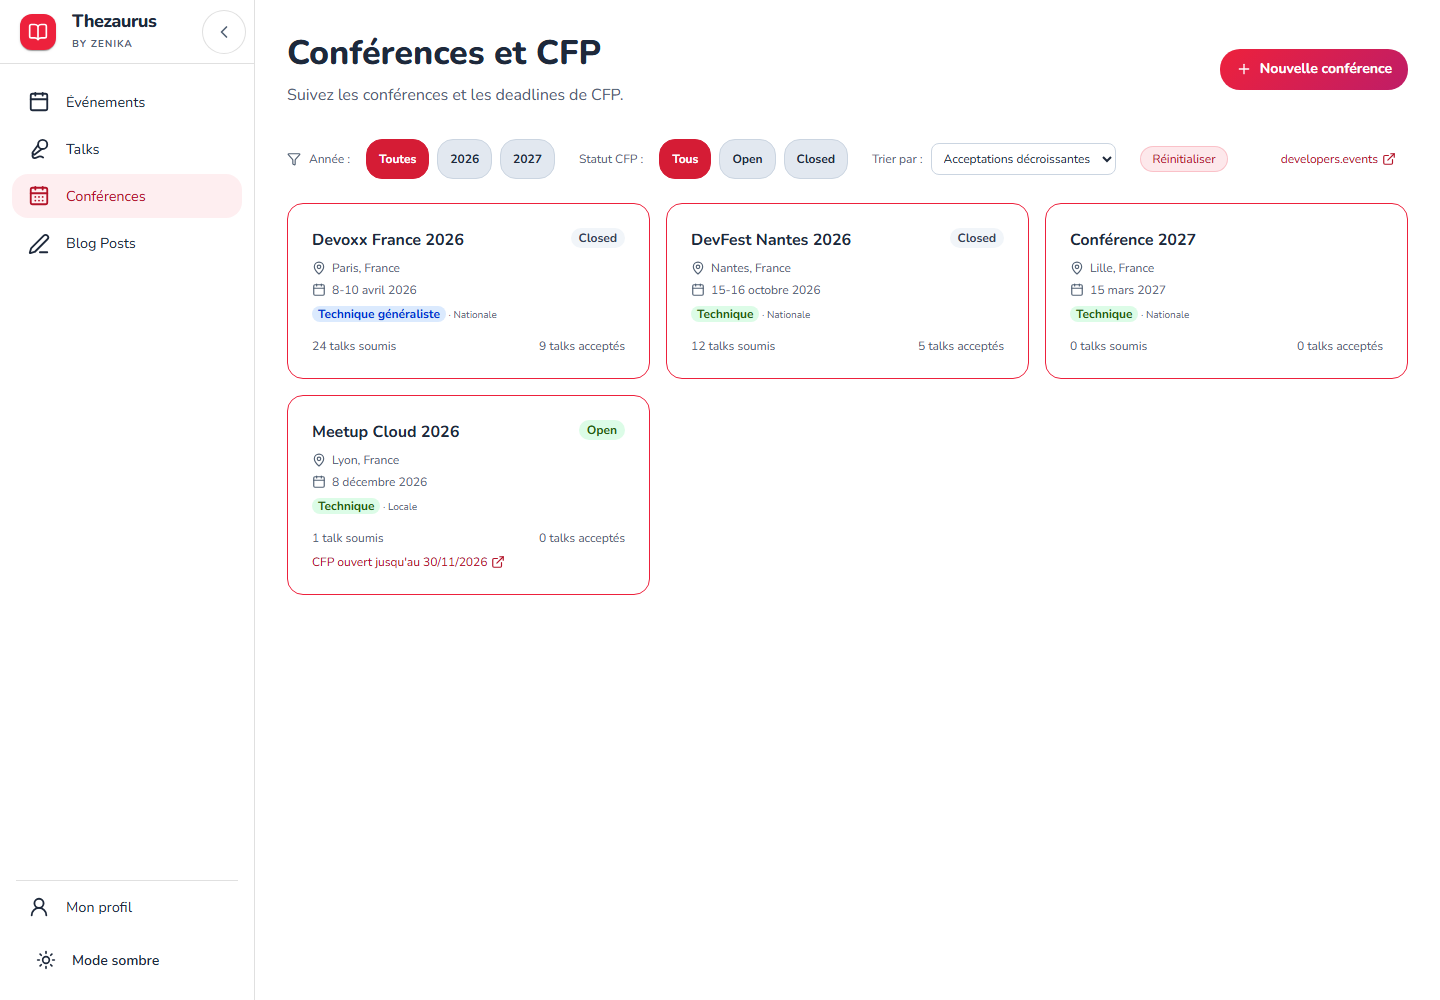
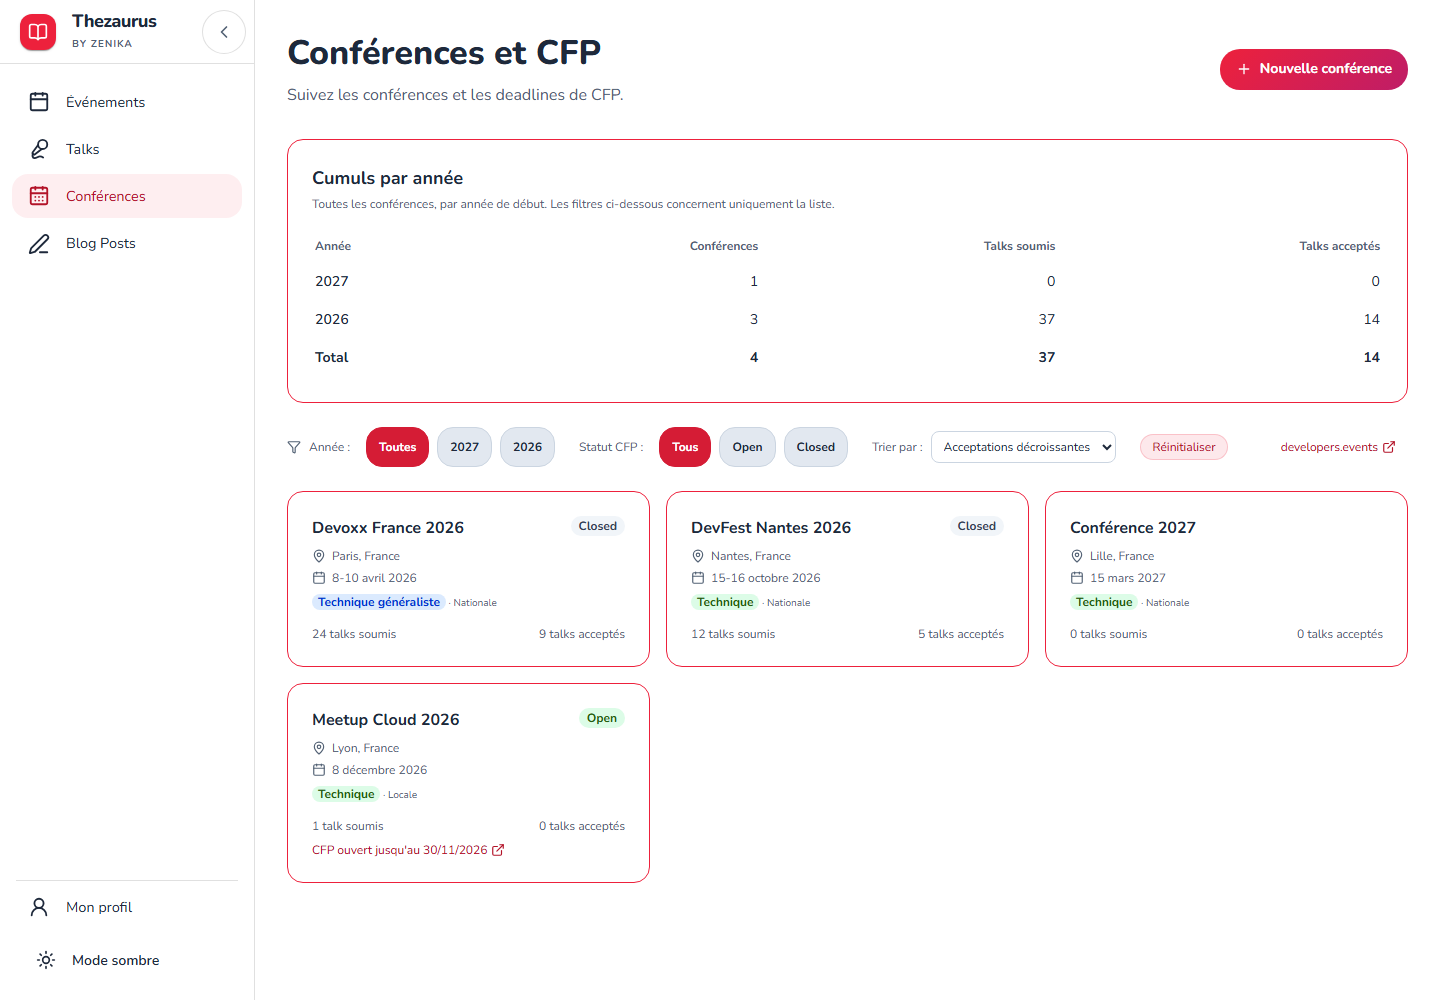
feat(conferences): ajouter les cumuls annuels et les filtres historiques

diff --git a/front/tests/conference-statistics.test.tsx b/front/tests/conference-statistics.test.tsx
@@ -1,5 +1,6 @@
 import { afterEach, expect, it, vi } from "vitest";
-import { fireEvent, render, screen } from "@testing-library/react";
+import { fireEvent, render, screen, within } from "@testing-library/react";
+import { ConferenceAnnualStatistics } from "@/features/conferences/ui/ConferenceAnnualStatistics";
 import { mapBackendToFrontend } from "@/entities/conference/api";
 import { conferenceApi, type ConferenceData } from "@/entities/conference";
 import { ConferencesList } from "@/features/conferences/ui/ConferencesList";
@@ -58,5 +59,57 @@ it("trie les compteurs sans requête, conserve les filtres et réinitialise l'or
   expect(sort).toHaveValue("default");
   before("Alpha", "Bravo"); before("Bravo", "Charlie");
   expect(state.conferences.map(conference => conference.id)).toEqual(["a", "b", "c"]);
+  expect(fetch).not.toHaveBeenCalled();
+});
+
+function annualConference(id: string, start: string, end: string, submitted: number, accepted?: number) {
+  return mapBackendToFrontend({
+    id, name: id, cfpStatus: "Open", date: { start, end, precision: "DAY" },
+    submittedTalksAmount: submitted, acceptedTalksAmount: accepted,
+  });
+}
+
+it("cumule par année de début, conserve les années vides et les conférences sans date", () => {
+  const conferences = [
+    annualConference("historique", "2025-03-01", "2025-03-01", 2, 1),
+    annualConference("première", "2026-04-01", "2026-04-02", 4, 2),
+    annualConference("deuxième", "2026-12-31", "2027-01-01", 3, 1),
+    annualConference("future", "2027-05-01", "2027-05-01", 0, 0),
+    annualConference("sans date", "", "", 1),
+  ];
+  render(<ConferenceAnnualStatistics conferences={conferences} />);
+  const region = within(screen.getByRole("region", { name: "Cumuls par année" }));
+  const cells = (name: RegExp) => within(region.getByRole("row", { name }))
+    .getAllByRole("cell").map(cell => cell.textContent);
+  expect(cells(/^2026 /)).toEqual(["2", "7", "3"]);
+  expect(cells(/^2025 /)).toEqual(["1", "2", "1"]);
+  expect(cells(/^2027 /)).toEqual(["1", "0", "0"]);
+  expect(cells(/^Année non renseignée /)).toEqual(["1", "1", "0"]);
+  expect(cells(/^Total /)).toEqual(["5", "10", "4"]);
+  expect(region.getAllByRole("rowheader").map(cell => cell.textContent))
+    .toEqual(["2027", "2026", "2025", "Année non renseignée", "Total"]);
+});
+
+it("affiche un total nul quand aucune conférence n'est disponible", () => {
+  render(<ConferenceAnnualStatistics conferences={[]} />);
+  const row = screen.getByRole("row", { name: /^Total / });
+  expect(within(row).getAllByRole("cell").map(cell => cell.textContent)).toEqual(["0", "0", "0"]);
+});
+
+it("permet de consulter une ancienne année sans modifier le bilan global ni refaire de requête", () => {
+  const fetch = vi.fn<typeof globalThis.fetch>();
+  vi.stubGlobal("fetch", fetch);
+  state.conferences = [
+    annualConference("Historique", "2023-03-01", "2023-03-01", 2, 1),
+    annualConference("Future", "2027-05-01", "2027-05-01", 3, 2),
+  ];
+  render(<ConferencesList />);
+  fireEvent.click(screen.getByRole("button", { name: "2023" }));
+  expect(screen.getByText("Historique")).toBeInTheDocument();
+  expect(screen.queryByText("Future")).not.toBeInTheDocument();
+  fireEvent.click(screen.getByRole("button", { name: /^Closed$/ }));
+  expect(screen.queryByText("Historique")).not.toBeInTheDocument();
+  const total = screen.getByRole("row", { name: /^Total / });
+  expect(within(total).getAllByRole("cell").map(cell => cell.textContent)).toEqual(["2", "5", "3"]);
   expect(fetch).not.toHaveBeenCalled();
 });

diff --git a/front/features/conferences/ui/ConferenceAnnualStatistics.tsx b/front/features/conferences/ui/ConferenceAnnualStatistics.tsx
@@ -1,0 +1,67 @@
+import { getConferenceYear, type ConferenceData } from "@/entities/conference";
+import { Surface } from "@/shared/ui";
+
+export function ConferenceAnnualStatistics({ conferences }: { conferences: readonly ConferenceData[] }) {
+  const years = new Map<number | null, { conferences: number; submitted: number; accepted: number }>();
+  for (const conference of conferences) {
+    const year = getConferenceYear(conference.date);
+    const key = Number.isFinite(year) ? year : null;
+    const totals = years.get(key) ?? { conferences: 0, submitted: 0, accepted: 0 };
+    totals.conferences++;
+    totals.submitted += conference.submittedTalksAmount;
+    totals.accepted += conference.acceptedTalksAmount ?? 0;
+    years.set(key, totals);
+  }
+  const rows = [...years].sort(([left], [right]) => {
+    if (left === right) return 0;
+    if (left === null) return 1;
+    if (right === null) return -1;
+    return right - left;
+  });
+  const total = rows.reduce((sum, [, row]) => ({
+    conferences: sum.conferences + row.conferences,
+    submitted: sum.submitted + row.submitted,
+    accepted: sum.accepted + row.accepted,
+  }), { conferences: 0, submitted: 0, accepted: 0 });
+
+  return (
+    <section aria-labelledby="conference-annual-statistics">
+      <Surface className="p-4 sm:p-6">
+        <h2 id="conference-annual-statistics" className="font-bold text-lg text-text">Cumuls par année</h2>
+        <p className="mt-1 mb-4 text-xs text-text-muted">
+          Toutes les conférences, par année de début. Les filtres ci-dessous concernent uniquement la liste.
+        </p>
+        <div className="overflow-x-auto">
+          <table className="w-full text-sm text-text">
+            <thead className="text-xs text-text-muted">
+              <tr>
+                <th scope="col" className="py-2 pr-3 text-left">Année</th>
+                <th scope="col" className="p-2 text-right">Conférences</th>
+                <th scope="col" className="p-2 text-right">Talks soumis</th>
+                <th scope="col" className="py-2 pl-3 text-right">Talks acceptés</th>
+              </tr>
+            </thead>
+            <tbody>
+              {rows.map(([year, row]) => (
+                <tr key={year ?? "unknown"} className="border-t border-border">
+                  <th scope="row" className="py-2 pr-3 text-left font-semibold">{year ?? "Année non renseignée"}</th>
+                  <td className="p-2 text-right tabular-nums">{row.conferences}</td>
+                  <td className="p-2 text-right tabular-nums">{row.submitted}</td>
+                  <td className="py-2 pl-3 text-right tabular-nums">{row.accepted}</td>
+                </tr>
+              ))}
+            </tbody>
+            <tfoot className="border-t border-border font-bold">
+              <tr>
+                <th scope="row" className="py-2 pr-3 text-left">Total</th>
+                <td className="p-2 text-right tabular-nums">{total.conferences}</td>
+                <td className="p-2 text-right tabular-nums">{total.submitted}</td>
+                <td className="py-2 pl-3 text-right tabular-nums">{total.accepted}</td>
+              </tr>
+            </tfoot>
+          </table>
+        </div>
+      </Surface>
+    </section>
+  );
+}

diff --git a/front/features/conferences/ui/ConferencesList.tsx b/front/features/conferences/ui/ConferencesList.tsx
@@ -11,6 +11,7 @@ import { StatusTag, TypeTag } from "@/features/conferences/ui";
 import { FilterChip, Surface } from "@/shared/ui";
 import { useState } from "react";
 import dayjs from "dayjs";
+import { ConferenceAnnualStatistics } from "./ConferenceAnnualStatistics";
 import {
   MapPin,
   Calendar,
@@ -24,12 +25,14 @@ export function ConferencesList() {
   const [statusFilter, setStatusFilter] = useState<"All" | "Open" | "Closed">(
     "All",
   );
-  const [yearFilter, setYearFilter] = useState<
-    "All" | "This Year" | "Next Year"
-  >("All");
+  const [yearFilter, setYearFilter] = useState<"All" | number>("All");
   const [sort, setSort] = useState("default");
 
   const currentYear = new Date().getFullYear();
+  const years = [...new Set([
+    currentYear, currentYear + 1,
+    ...conferences.map(conference => getConferenceYear(conference.date)).filter(Number.isFinite),
+  ])].sort((left, right) => right - left);
 
   const filteredConferences = conferences.filter((conference) => {
     if (statusFilter !== "All" && conference.cfpStatus !== statusFilter) {
@@ -37,9 +40,7 @@ export function ConferencesList() {
     }
     if (yearFilter !== "All") {
       const confYear = getConferenceYear(conference.date);
-      if (yearFilter === "This Year" && confYear !== currentYear) return false;
-      if (yearFilter === "Next Year" && confYear !== currentYear + 1)
-        return false;
+      if (confYear !== yearFilter) return false;
     }
     return true;
   });
@@ -54,20 +55,15 @@ export function ConferencesList() {
 
   return (
     <div className="flex flex-col gap-6">
+      <ConferenceAnnualStatistics conferences={conferences} />
       <div className="flex items-center gap-6 flex-wrap">
         <div className="flex items-center gap-2 flex-wrap">
           <Funnel size={14} className="text-text-muted shrink-0" />
           <span className="text-xs text-text-muted mr-2">Année :</span>
-          {(["All", "This Year", "Next Year"] as const).map((year) => (
+          {(["All", ...years] as const).map((year) => (
             <FilterChip
               key={year}
-              label={
-                year === "All"
-                  ? "Toutes"
-                  : year === "This Year"
-                    ? currentYear.toString()
-                    : (currentYear + 1).toString()
-              }
+              label={year === "All" ? "Toutes" : year.toString()}
               active={yearFilter === year}
               onClick={() => setYearFilter(year)}
             />

diff --git a/docs/ConferenceStatistics.md b/docs/ConferenceStatistics.md
@@ -11,6 +11,19 @@ Les égalités sont départagées par nom puis identifiant. Le tri travaille sur
 du catalogue en mémoire, sans requête supplémentaire ni modification du cache ; Réinitialiser
 rétablit aussi l'ordre initial.
 
+## Cumuls annuels
+
+Le tableau « Cumuls par année » additionne les compteurs de toutes les conférences du catalogue,
+par année de début, sans requête ni compteur persisté supplémentaire. Une conférence chevauchant
+deux années n'est comptée qu'une fois. Les conférences sans année connue sont regroupées sur une
+ligne séparée ; les années présentes avec zéro talk restent affichées. Un total général inclut
+aussi les conférences sans date. Le tableau n'est pas affecté par les filtres ou le tri de la liste.
+
+Le filtre de la liste propose les années disponibles, y compris les années passées, en plus de
+l'année courante et de la suivante. Il permet de consulter les conférences d'une année du bilan.
+Il s'agit de l'état actuel des conférences par année d'événement, pas d'un historique par date de
+soumission : une modification de statut ou une suppression se répercute sur les cumuls.
+
 - Soumissions : `SUBMITTED`, `ACCEPTED`, `REJECTED`, `DONE`.
 - Acceptations : `ACCEPTED` et `DONE`.
 - Brouillons et talks planifiés exclus. Un talk compte une fois, indépendamment des speakers.
@@ -127,7 +140,7 @@ volumes réels. La migration ajoute un coût ponctuel à amortir.
 
 ## Captures de l'interface
 
-Captures du vrai front de la branche, le 2 novembre 2026, avec réponses API et session de
+Captures du vrai front de la branche, le 3 novembre 2026, avec réponses API et session de
 démonstration interceptées dans le navigateur. Docker étant arrêté, elles ne constituent pas
 une validation de bout en bout contre Firestore. Les chiffres sont fictifs et ne viennent pas
 de la production. Les compteurs sont dérivés des talks du [scénario de démonstration](screenshots/issue-196/scenario.json),
